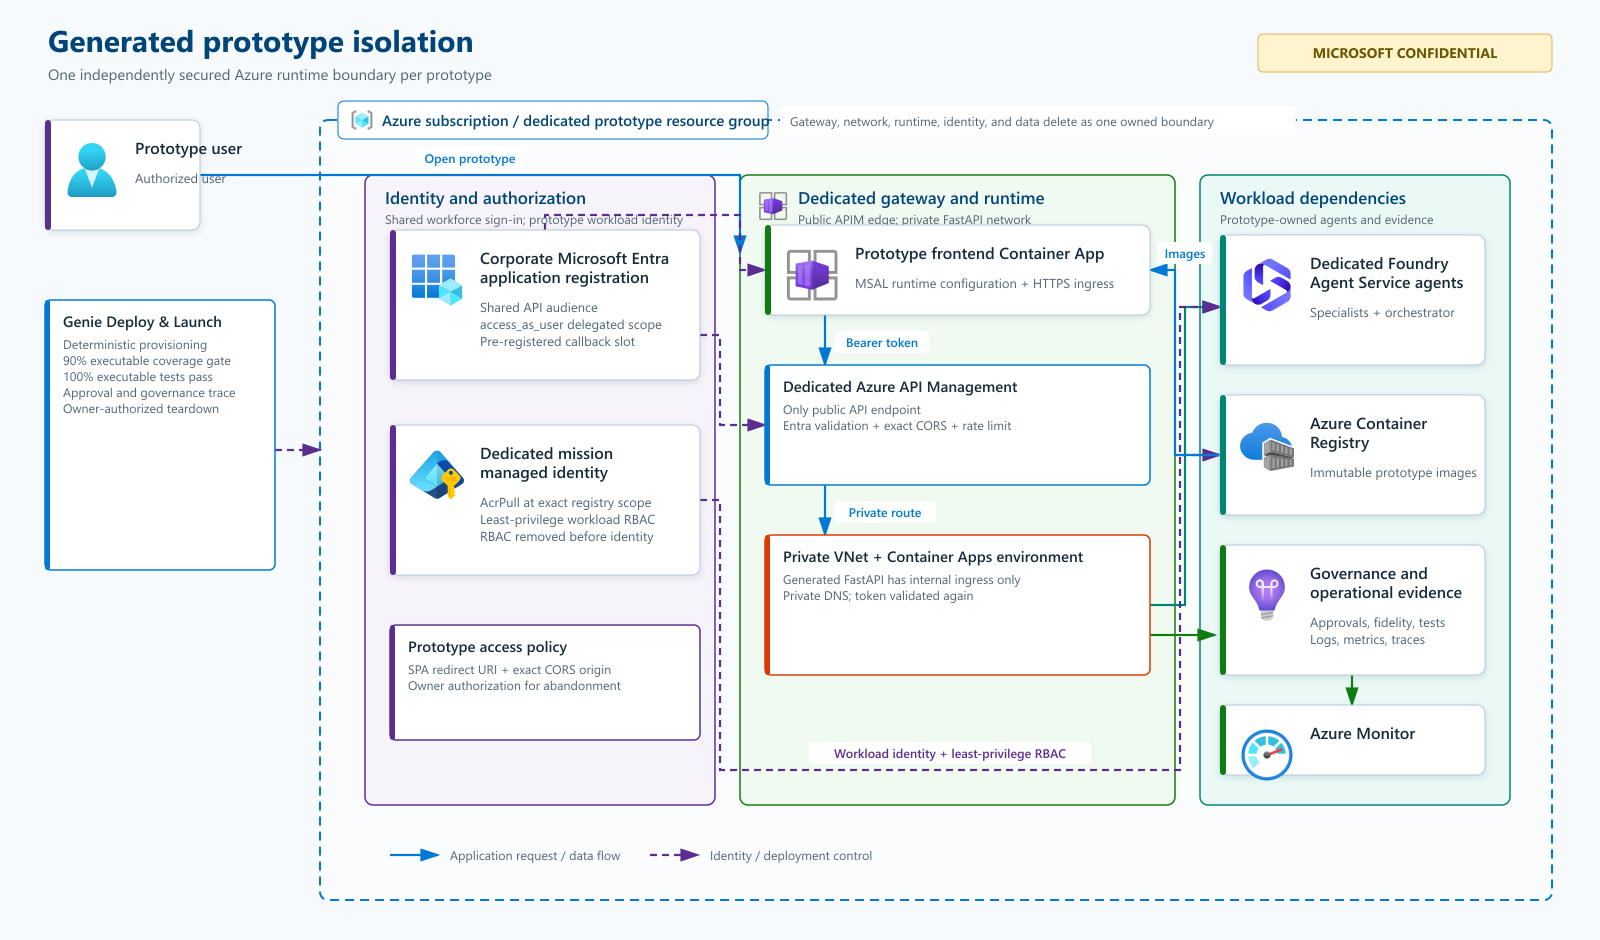
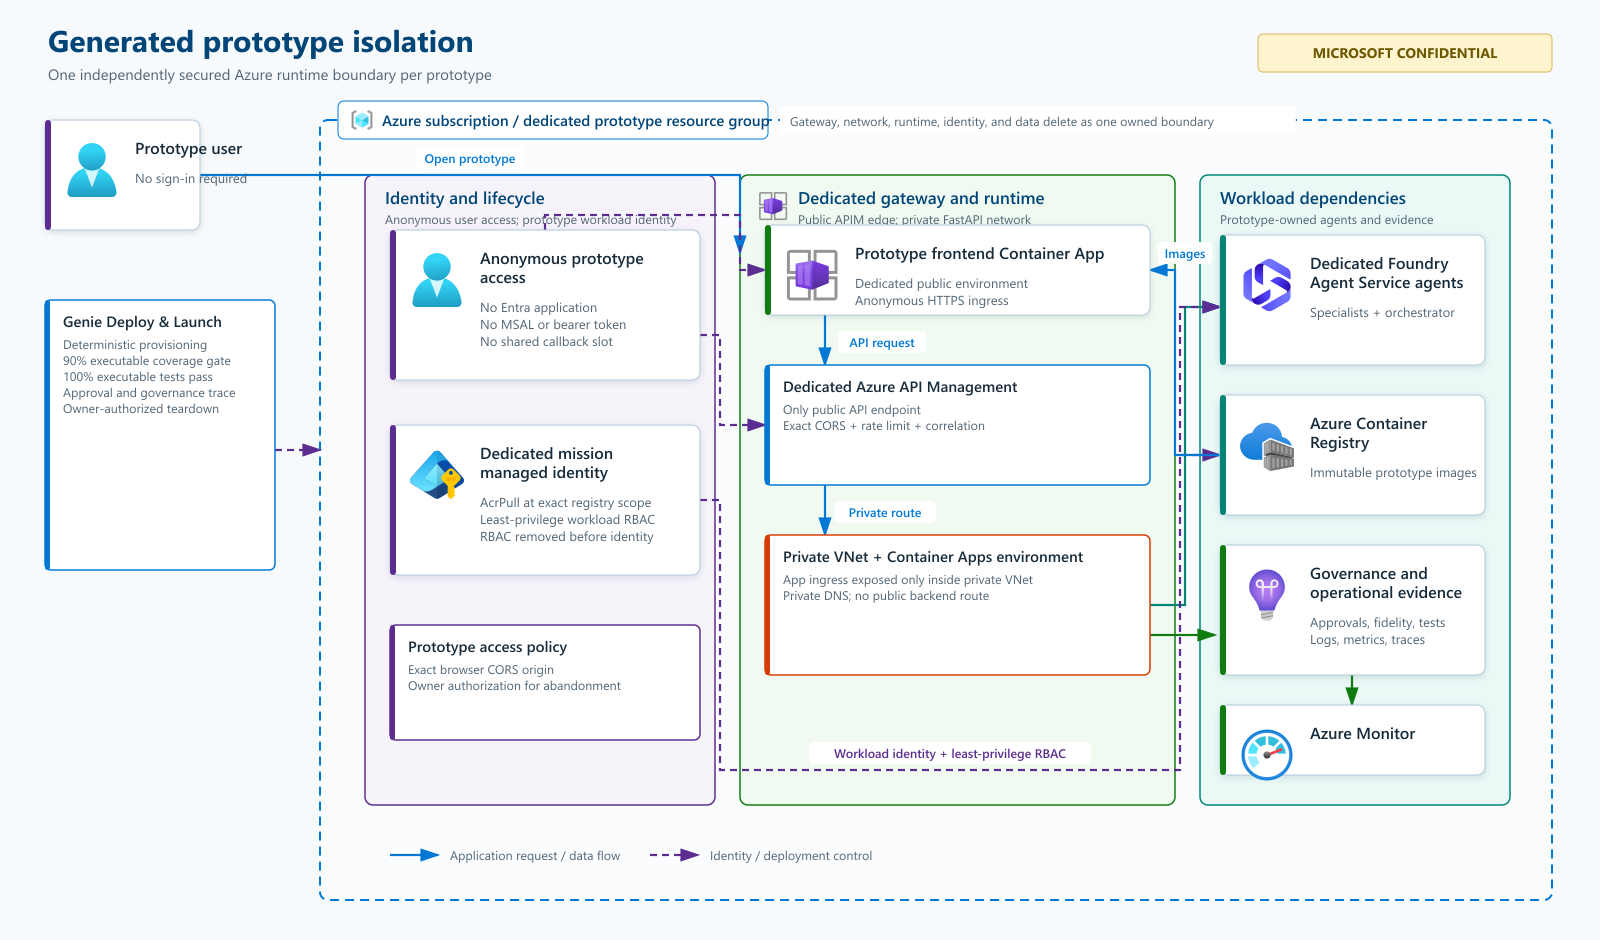
Fix isolated prototype deployment topology

diff --git a/backend/app/deploy_launch/container_app_frontend_deployment_service.py b/backend/app/deploy_launch/container_app_frontend_deployment_service.py
@@ -16,7 +16,10 @@ from pathlib import Path
 from typing import Any
 
 from app.config.settings import Settings
-from app.deploy_launch.resource_naming import prototype_resource_group_name
+from app.deploy_launch.resource_naming import (
+    prototype_frontend_environment_name,
+    prototype_resource_group_name,
+)
 
 DeploymentProgressCallback = Callable[[str], Awaitable[None]]
 _ACR_RUN_FAILURE_STATUSES = frozenset({"failed", "canceled", "cancelled", "error", "timeout"})
@@ -66,13 +69,11 @@ class ContainerAppFrontendDeploymentService:
         subscription_id: str,
         resource_group: str,
         acr_name: str,
-        container_apps_environment_id: str,
         location: str,
     ) -> None:
         self._subscription_id = subscription_id
         self._resource_group = resource_group
         self._acr_name = acr_name
-        self._container_apps_environment_id = container_apps_environment_id
         self._location = location
 
     def _acr_client(self) -> Any:
@@ -197,6 +198,7 @@ class ContainerAppFrontendDeploymentService:
                 Container,
                 ContainerApp,
                 Ingress,
+                ManagedEnvironment,
                 ManagedServiceIdentity,
                 RegistryCredentials,
                 Scale,
@@ -204,10 +206,29 @@ class ContainerAppFrontendDeploymentService:
                 UserAssignedIdentity,
             )
 
+            resource_group = prototype_resource_group_name(mission_slug)
+            environment_name = prototype_frontend_environment_name(mission_slug)
+            tags = {"genie-managed-by": "genie", "genie-mission-id": mission_slug}
+            container_apps_client = self._container_apps_client()
+            await report("Provisioning the mission's public frontend environment...")
+            environment_poller = container_apps_client.managed_environments.begin_create_or_update(
+                resource_group,
+                environment_name,
+                ManagedEnvironment(
+                    location=self._location,
+                    tags=tags,
+                ),
+            )
+            environment = await asyncio.to_thread(environment_poller.result)
+            if not environment.id:
+                raise ContainerAppFrontendDeploymentError(
+                    "Frontend Container Apps environment returned no resource ID."
+                )
+
             envelope = ContainerApp(
                 location=self._location,
-                tags={"genie-managed-by": "genie", "genie-mission-id": mission_slug},
-                managed_environment_id=self._container_apps_environment_id,
+                tags=tags,
+                managed_environment_id=environment.id,
                 identity=ManagedServiceIdentity(
                     type="UserAssigned",
                     user_assigned_identities={
@@ -230,8 +251,8 @@ class ContainerAppFrontendDeploymentService:
                 ),
             )
             await report("Creating/updating the mission frontend Container App...")
-            result = self._container_apps_client().container_apps.begin_create_or_update(
-                prototype_resource_group_name(mission_slug), app_name, envelope
+            result = container_apps_client.container_apps.begin_create_or_update(
+                resource_group, app_name, envelope
             ).result()
         except Exception as exc:
             raise ContainerAppFrontendDeploymentError(
@@ -297,19 +318,17 @@ def create_container_app_frontend_deployment_service(
         settings.azure_subscription_id,
         settings.deployment_resource_group,
         settings.deployment_acr_name,
-        settings.deployment_container_apps_environment_id,
         settings.deployment_location,
     )
     if not all(required):
         raise ContainerAppFrontendDeploymentError(
-            "azure_subscription_id, deployment_resource_group, deployment_acr_name, "
-            "deployment_container_apps_environment_id, and deployment_location must "
-            "all be configured; local/fake frontend deployment is not permitted."
+            "azure_subscription_id, deployment_resource_group, deployment_acr_name, and "
+            "deployment_location must all be configured; local/fake frontend deployment "
+            "is not permitted."
         )
     return ContainerAppFrontendDeploymentService(
         subscription_id=settings.azure_subscription_id,  # type: ignore[arg-type]
         resource_group=settings.deployment_resource_group,  # type: ignore[arg-type]
         acr_name=settings.deployment_acr_name,  # type: ignore[arg-type]
-        container_apps_environment_id=settings.deployment_container_apps_environment_id,  # type: ignore[arg-type]
         location=settings.deployment_location,  # type: ignore[arg-type]
     )

diff --git a/backend/tests/unit/deploy_launch/test_backend_deployment_service.py b/backend/tests/unit/deploy_launch/test_backend_deployment_service.py
@@ -214,7 +214,7 @@ async def test_protected_backend_deploys_private_backend_without_mise_sidecar(
     envelope = captured["envelope"]
     assert result.backend_url == "https://claims-1234.azure-api.net"
     assert envelope.managed_environment_id == "private-env-123"
-    assert envelope.configuration.ingress.external is False
+    assert envelope.configuration.ingress.external is True
     assert envelope.configuration.ingress.target_port == 8000
     assert envelope.configuration.ingress.additional_port_mappings is None
     assert envelope.configuration.registries[0].identity.endswith("/claims-1234")
@@ -243,7 +243,6 @@ async def test_frontend_deployment_uses_mission_identity_for_acr(monkeypatch, tm
         subscription_id="sub-123",
         resource_group="genie-dev-rg",
         acr_name="acr123",
-        container_apps_environment_id="env-123",
         location="eastus2",
     )
     acr_client = SimpleNamespace(
@@ -259,7 +258,16 @@ async def test_frontend_deployment_uses_mission_identity_for_acr(monkeypatch, tm
     )
     captured = {}
 
+    def create_environment(resource_group, environment_name, environment):
+        captured["environment_resource_group"] = resource_group
+        captured["environment_name"] = environment_name
+        captured["environment"] = environment
+        return SimpleNamespace(
+            result=lambda: SimpleNamespace(id="/prototype/public-frontend-environment")
+        )
+
     def begin_create_or_update(resource_group, app_name, envelope):
+        captured["app_resource_group"] = resource_group
         captured["envelope"] = envelope
         return SimpleNamespace(
             result=lambda: SimpleNamespace(
@@ -274,6 +282,7 @@ async def test_frontend_deployment_uses_mission_identity_for_acr(monkeypatch, tm
         service,
         "_container_apps_client",
         lambda: SimpleNamespace(
+            managed_environments=SimpleNamespace(begin_create_or_update=create_environment),
             container_apps=SimpleNamespace(begin_create_or_update=begin_create_or_update)
         ),
     )
@@ -295,6 +304,11 @@ async def test_frontend_deployment_uses_mission_identity_for_acr(monkeypatch, tm
 
     envelope = captured["envelope"]
     assert result.frontend_url == "https://frontend.example.com"
+    assert captured["environment_resource_group"] == "genie-proto-claims-1234"
+    assert captured["app_resource_group"] == "genie-proto-claims-1234"
+    assert captured["environment_name"].startswith("genie-fe-")
+    assert captured["environment"].vnet_configuration is None
+    assert envelope.managed_environment_id == "/prototype/public-frontend-environment"
     assert mission_identity_resource_id in envelope.identity.user_assigned_identities
     assert envelope.configuration.registries[0].identity == mission_identity_resource_id
     assert envelope.configuration.registries[0].username is None

diff --git a/backend/tests/unit/test_platform_private_gateway_deployment.py b/backend/tests/unit/test_platform_private_gateway_deployment.py
@@ -115,3 +115,25 @@ def test_gateway_deployer_role_is_resource_group_scoped_and_has_no_delete_action
     actions = script.split("Actions = @(", maxsplit=1)[1].split("    )", maxsplit=1)[0]
     assert "Microsoft.Authorization/" not in actions
     assert '/delete"' not in actions
+
+
+def test_prototype_operator_can_create_environments_without_broad_contributor():
+    script = (_repo_root() / "scripts" / "configure_prototype_operator.ps1").read_text(
+        encoding="utf-8"
+    )
+
+    assert '$subscriptionScope = "/subscriptions/$SubscriptionId"' in script
+    assert "Microsoft.Resources/subscriptions/resourceGroups/write" in script
+    assert "Microsoft.App/managedEnvironments/read" in script
+    assert "Microsoft.App/managedEnvironments/write" in script
+    assert "Microsoft.App/locations/managedEnvironmentOperationStatuses/read" in script
+    assert "Microsoft.App/locations/managedEnvironmentOperationResults/read" in script
+    assert "& az rest" in script
+    assert "api-version=2022-04-01" in script
+    assert "$savedRole.properties.permissions[0].actions" in script
+    assert "$missingActions" in script
+    assert "did not persist required" in script
+    actions = script.split("Actions = @(", maxsplit=1)[1].split("    )", maxsplit=1)[0]
+    assert '"*"' not in actions
+    assert "Microsoft.Authorization/" not in actions
+    assert "Microsoft.App/containerApps/" not in actions

diff --git a/backend/app/deploy_launch/resource_naming.py b/backend/app/deploy_launch/resource_naming.py
@@ -1,8 +1,17 @@
 """Deterministic Azure resource names for one deployed prototype."""
 from __future__ import annotations
 
+import hashlib
+
 
 def prototype_resource_group_name(mission_slug: str) -> str:
     """Return the stable resource-group name used by one prototype."""
 
     return f"genie-proto-{mission_slug}"[:90].rstrip("-._()")
+
+
+def prototype_frontend_environment_name(mission_slug: str) -> str:
+    """Return a stable globally valid name for a prototype's public frontend environment."""
+
+    digest = hashlib.sha256(mission_slug.encode("utf-8")).hexdigest()[:16]
+    return f"genie-fe-{digest}"

diff --git a/backend/app/deploy_launch/backend_deployment_service.py b/backend/app/deploy_launch/backend_deployment_service.py
@@ -499,7 +499,7 @@ class BackendDeploymentService:
                 identity=identity_config,
                 configuration=Configuration(
                     ingress=Ingress(
-                        external=not private_gateway_enabled,
+                        external=True,
                         target_port=8000,
                         additional_port_mappings=None,
                     ),

diff --git a/README.md b/README.md
@@ -69,7 +69,7 @@ Deploy & Launch creates a separate runtime boundary for every newly generated pr
 
 *Figure 2. Per-prototype security and runtime isolation. Select the diagram to open the scalable SVG.*
 
-Each prototype receives a tagged `genie-proto-<mission-slug>` resource group, dedicated APIM service, VNet and private DNS, internal Container Apps environment, exact CORS origin, backend/frontend Container Apps, mission managed identity, RBAC assignments, and generated Foundry agents. The generated frontend and APIM endpoint are anonymous; APIM enforces exact-origin browser CORS, per-client rate limiting, and correlation IDs before forwarding over the private network. CORS is not authentication, so non-browser clients that know the APIM URL can call it. The durable Cosmos inventory records the shared `genie-internal-user` owner, mission metadata, URLs, resource group, TTL, and cleanup state. The fixed internal principal has `Genie.Admin`, so all callers share inventory and cleanup authority.
+Each prototype receives a tagged `genie-proto-<mission-slug>` resource group, dedicated APIM service, VNet and private DNS, an internal backend Container Apps environment, a public frontend Container Apps environment, exact CORS origin, backend/frontend Container Apps, mission managed identity, RBAC assignments, and generated Foundry agents. The backend enables ingress at the app boundary so VNet-integrated APIM can reach it, while the internal environment keeps that ingress private and unreachable from the internet. The separate public environment makes only the generated static frontend internet-reachable and remains disposable with the prototype resource group. The generated frontend and APIM endpoint are anonymous; APIM enforces exact-origin browser CORS, per-client rate limiting, and correlation IDs before forwarding over the private network. CORS is not authentication, so non-browser clients that know the APIM URL can call it. The durable Cosmos inventory records the shared `genie-internal-user` owner, mission metadata, URLs, resource group, TTL, and cleanup state. The fixed internal principal has `Genie.Admin`, so all callers share inventory and cleanup authority.
 
 ### Layering rules (enforced by tests)
 
@@ -220,9 +220,9 @@ Deploy & Launch is deliberately **not** an LLM-narrative workflow step — it is
 |---|---|---|---|
 | 1 | `generate-access-policy` | Generate Access Policy & Least Access | Derives a least-privilege access policy for the mission's generated agents |
 | 2 | `provision-foundry-agents` | Deploy Agents to Foundry | Provisions each generated specialist + orchestrator agent as a real Azure AI Foundry resource |
-| 3 | `deploy-backend-service` | Deploy Backend Service | Provisions a prototype-owned VNet, private DNS zone, internal Container Apps environment, and dedicated Standard v2 API Management service; builds FastAPI; and deploys it with external ingress disabled. APIM is the only public API endpoint and reaches FastAPI only over the prototype private network |
+| 3 | `deploy-backend-service` | Deploy Backend Service | Provisions a prototype-owned VNet, private DNS zone, internal Container Apps environment, and dedicated Standard v2 API Management service; builds FastAPI; and enables app-boundary ingress inside the internal environment. APIM is the only public API endpoint and reaches FastAPI only over the prototype private network |
 | 4 | `sync-frontend-integration` | Update Frontend Integrations | Wires the generated anonymous UI to the dedicated APIM endpoint; no Entra, MSAL, bearer-token, or acceptance-key runtime configuration is generated |
-| 5 | `deploy-frontend-app` | Deploy Frontend | Builds the mission UI under Node 22, runs the pinned Apache-2.0 Impeccable `3.6.0` detector over generated TSX/CSS, fails closed on deterministic design anti-patterns, then deploys a mission-specific frontend Container App. APIM's deny-by-default bootstrap CORS origin is replaced with the returned exact HTTPS origin |
+| 5 | `deploy-frontend-app` | Deploy Frontend | Builds the mission UI under Node 22, runs the pinned Apache-2.0 Impeccable `3.6.0` detector over generated TSX/CSS, fails closed on deterministic design anti-patterns, provisions a prototype-owned public Consumption Container Apps environment, then deploys a mission-specific frontend Container App. APIM's deny-by-default bootstrap CORS origin is replaced with the returned exact HTTPS origin |
 | 6 | `generate-test-suite` | Generate Requirement Acceptance Tests | Test Generation Agent writes real black-box tests against the deployed prototype's actual mission URLs (no mocks/patches), targeting every approved requirement id. `MISSION_BACKEND_URL` is the dedicated HTTPS APIM endpoint and generated code receives no authentication credential. A requirement-coverage repair loop retries omitted IDs up to `GENIE_DEPLOYMENT_FIDELITY_MAX_REPAIR_ATTEMPTS`; after that, executable coverage must meet `GENIE_DEPLOYMENT_FIDELITY_MIN_COVERAGE_PERCENT` (default 90%) and every omitted ID remains an explicit fidelity gap. For a real deployed backend, `validate_real_action_tests` also rejects test doubles in place of real HTTP calls |
 | 7 | `execute-test-suite` | Requirement Fidelity Gate | Generated tests call the dedicated APIM endpoint directly without Entra or an acceptance key. Launch requires the configured executable-coverage threshold and 100% passing evidence for all executable requirement tests. Failed, errored, skipped, timed-out, or unobserved executable tests still trigger automatic regeneration and redeployment up to `GENIE_DEPLOYMENT_FIDELITY_MAX_REPAIR_ATTEMPTS` times (default 3), then fail closed |
 | 8 | `run-security-scan` | Security Scan (Backend & Frontend) | Real security scan of the deployed backend and frontend artifacts |
@@ -617,7 +617,7 @@ All three require `GENIE_AZURE_FOUNDRY_ENDPOINT` / `GENIE_AZURE_FOUNDRY_PROJECT_
    - **Container Registry Tasks Contributor**, scoped to just the ACR resource — covers `az acr build`'s scheduleRun/upload actions without granting registry data-plane push/pull.
   - **Container Apps Contributor**, scoped to just the `genie-backend-corporate` Container App resource — covers the atomic ARM patch.
   - **Genie Platform Gateway Deployer**, scoped to the Genie resource group — a custom role containing only resource-group deployment, APIM API, delegated subnet/NSG, VNet join, private endpoint/DNS, and Container Apps environment update/approval actions. It contains no delete or authorization-management action. Create/update and assign it once with `scripts/configure_platform_gateway_deployer.ps1 -SubscriptionId <id> -ResourceGroup <rg> -PrincipalObjectId <oidc-service-principal-object-id>`.
-3. The **runtime Genie backend managed identity** has the custom `Genie Prototype Resource Group Operator` role plus API Management Service Contributor, Network Contributor, Container Apps Contributor, Managed Identity Contributor, and Managed Identity Operator at subscription scope. The custom role permits only resource-group read/write/delete; the built-in roles are restricted to their respective provider surfaces. Shared ACR and role-assignment permissions remain constrained to existing resource scopes. New prototypes do not require Microsoft Graph application writes.
+3. The **runtime Genie backend managed identity** has the custom `Genie Prototype Resource Group Operator` role plus API Management Service Contributor, Network Contributor, Container Apps Contributor, Managed Identity Contributor, and Managed Identity Operator at subscription scope. The custom role permits resource-group lifecycle plus only the managed-environment create/read and operation-status actions missing from Azure's built-in Container Apps Contributor role; the built-in roles remain restricted to their respective provider surfaces. Shared ACR and role-assignment permissions remain constrained to existing resource scopes. New prototypes do not require Microsoft Graph application writes. Create/update and assign the custom role with `scripts/configure_prototype_operator.ps1 -SubscriptionId <id> -PrincipalObjectId <runtime-managed-identity-object-id>`.
 4. The repo's **Settings → Secrets and variables → Actions** has:
   - **Secrets**: `AZURE_CLIENT_ID`, `AZURE_TENANT_ID`, `AZURE_SUBSCRIPTION_ID` (identify the federated deployment app, not credentials by themselves), and `SWA_DEPLOYMENT_TOKEN`.
   - **Variables**: `AZURE_ACR_NAME`, `AZURE_CONTAINER_APP_NAME`, `AZURE_RESOURCE_GROUP`, `GENIE_GATEWAY_ALLOWED_ORIGIN`, `GENIE_MEMORY_STORE_ENDPOINT`, `GENIE_PROTOTYPE_API_GATEWAY_PUBLISHER_EMAIL`, and `GENIE_PROTOTYPE_API_GATEWAY_PUBLISHER_NAME`. `VITE_GENIE_API_BASE_URL` is no longer a production GitHub variable; `prepare-gateway` emits it from the APIM deployment.
